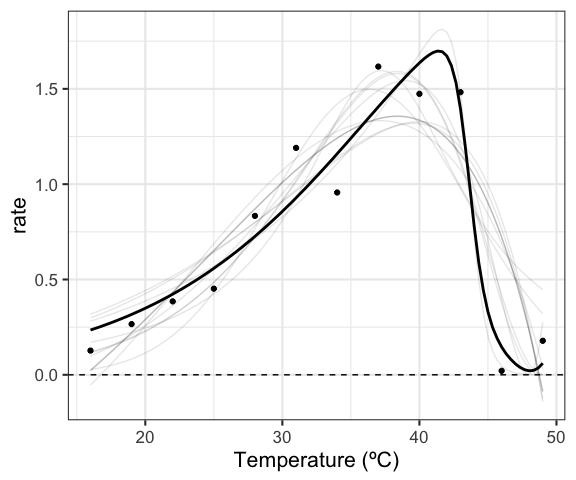
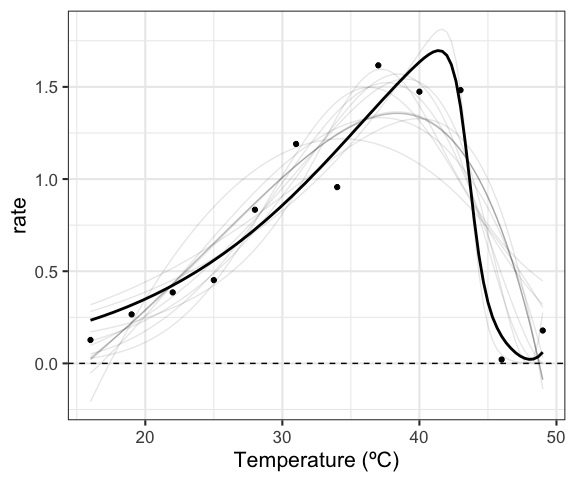
Define quadratic model

Changed region(s): [[0.0625, 0.0938, 0.9688, 0.8125]]

diff --git a/README.md b/README.md
@@ -94,7 +94,8 @@ d_models <- group_by(d_1, curve_id, growth.temp, process, flux) %>%
                                            iter = 500,
                                            start_lower = c(a = -10, b = -10, c = -10, topt = 0),
                                            start_upper = c(a = 10, b = 10, c = 10, topt = 40),
-                                           supp_errors = 'Y')),
+                                           supp_errors = 'Y',
+                                           lower = c(a= 0, b = -10, c = 0, topt = 0))),
             briere2 = map(data, ~nls_multstart(rate ~ briere2_1999(temp = temp, tmin, tmax, a, b),
                                            data = .x,
                                            iter = 500,
@@ -151,6 +152,12 @@ d_models <- group_by(d_1, curve_id, growth.temp, process, flux) %>%
                                            iter = 500,
                                            start_lower = c(tmin = 0, tmax = 10, a = -3, b = -1, c = -1),
                                            start_upper = c(tmin = 20, tmax = 50, a = 3, b = 1, c =1),
+                                           supp_errors = 'Y')),
+            quadratic = map(data, ~nls_multstart(rate ~ quadratic_2008(temp = temp, a, b, c),
+                                           data = .x,
+                                           iter = 500,
+                                           start_lower = c(a = 0, b = -2, c = -1),
+                                           start_upper = c(a = 30, b = 2, c = 1),
                                            supp_errors = 'Y')))
 ```
 
